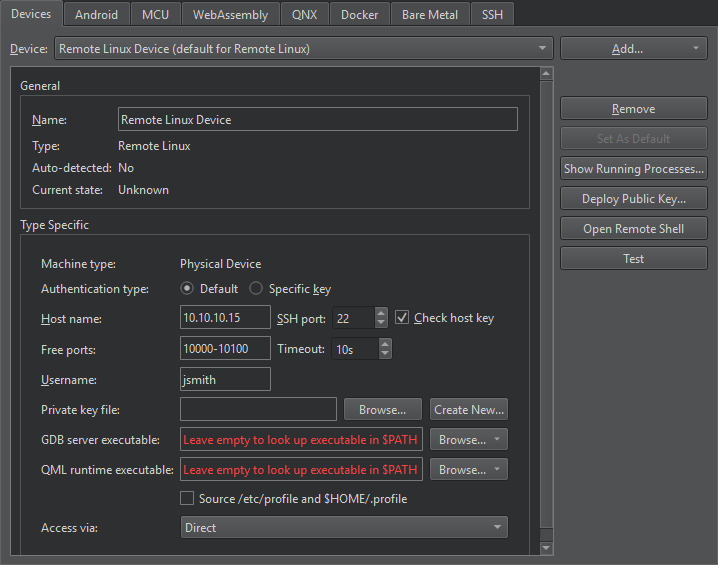
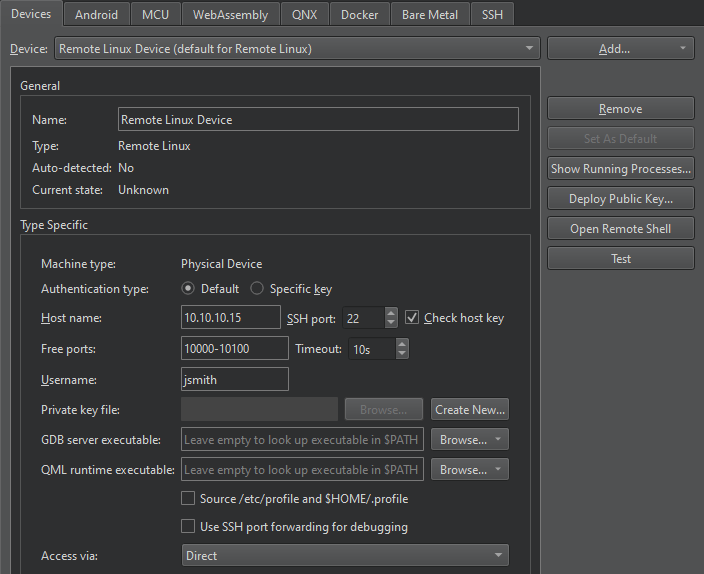
Doc: Describe the "Use SSH port forwarding for debugging" option
... in Preferences > Devices for a Remote Linux Device.

Add links between developing for remote Linux and debugging
remotely with GDB.

Task-number: QTCREATORBUG-30604

Changed region(s): [[0.0, 0.0, 1.0, 1.0], [0.25, 0.4513, 0.7188, 0.7221], [0.0312, 0.4513, 0.2188, 0.5717]]

diff --git a/dist/changelog/changes-14.0.0.md b/dist/changelog/changes-14.0.0.md
@@ -289,7 +289,8 @@ Platforms
 
 ### Remote Linux
 
-* Added the option to use SSH port forwarding for debugging
+* Added the `Use SSH port forwarding for debugging` option in `Preferences` >
+  `Devices` for a `Remote Linux Device`
 * Improved the performance of the generic deployment method
 * Fixed that the file size check that is performed before parsing C++ files
   could freeze Qt Creator until finished for remote projects
